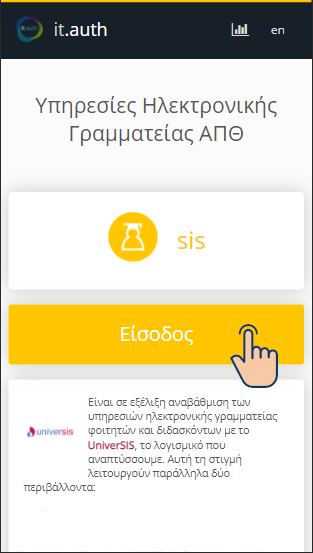
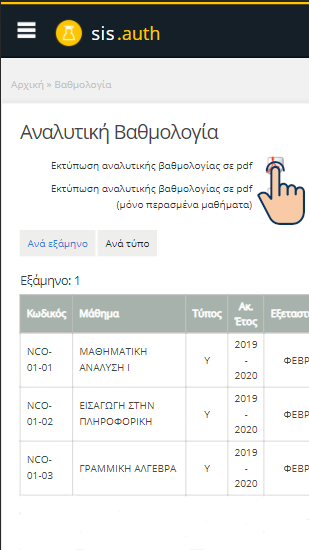
Changed the text url, in the first step of the instructions page on how to get your grades from sis, in a tappable link that opens in a brouwser tab.

diff --git a/lib/pages/general/SignUpInstructionsPage.dart b/lib/pages/general/SignUpInstructionsPage.dart
@@ -1,7 +1,10 @@
+import 'package:flutter/gestures.dart';
 import 'package:flutter/material.dart';
 import 'package:grade_plus_plus/pages/AbstractPage.dart';
 import 'package:grade_plus_plus/pages/fragments/InstructionsStepDescription.dart';
 import 'package:grade_plus_plus/pages/fragments/DotsRow.dart';
+import 'package:grade_plus_plus/pages/fragments/StyledText.dart';
+import 'package:url_launcher/url_launcher.dart';
 
 // Represents the page that contains the instructions on how to get your grades from sis
 class SignUpInstructionsPage extends AbstractPage {
@@ -22,19 +25,11 @@ class _SignUpInstructionsPageState extends PageState<SignUpInstructionsPage> {
   final List<String> imgList = [
     'assets/signup_instructions1.png',
     'assets/signup_instructions2.png',
-    'assets/signup_instructions3.png',
-    'assets/signup_instructions4.png',
-    'assets/signup_instructions5.png',
-    'assets/signup_instructions6.png',
   ];
 
   final List<String> descriptionsList = [
-    'Visit https://sis.auth.gr/old and login with your academic account.',
-    'Click on the top left menu button.',
-    'Click the second choice "Βαθμολογία" available on the menu.',
-    'Click again the second choice "Αναλυτική" available on the new menu that popped up.',
-    'Click the pdf icon "Εκτύπωση αναλυτικής βαθμολογίας σε pdf". A pdf file with your grades will be downloaded.',
-    'You are ready! You can now select the downloaded pdf file in the third stage of our app\'s signup process',
+    'Visit https://sis.auth.gr/old and login with your academic account. Click the pdf icon "Εκτύπωση αναλυτικής βαθμολογίας σε pdf". A pdf file with your grades will be downloaded.',
+    'You are ready! You can now select the downloaded pdf file in the third stage of our app\'s signup process.',
   ];
 
   @override
@@ -90,7 +85,44 @@ class _SignUpInstructionsPageState extends PageState<SignUpInstructionsPage> {
           ),
           InstructionsStepDescription(
             imgIndex: imgIndex,
-            description: descriptionsList[imgIndex],
+            descriptionWidget: (imgIndex != 0)
+                ? StyledText(
+                    descriptionsList[imgIndex],
+                    align: TextAlign.center,
+                    size: 18.0,
+                    weight: FontWeight.values[4],
+                  )
+                : Column(
+                    crossAxisAlignment: CrossAxisAlignment.center,
+                    children: [
+                      Row(
+                        children: <Widget>[
+                          StyledText(
+                            'Visit ',
+                            size: 18.0,
+                            weight: FontWeight.values[4],
+                          ),
+                          InkWell(
+                              child:
+                                  Text('https://sis.auth.gr/old/el/all_grades.',
+                                      style: TextStyle(
+                                        fontSize: 18.0,
+                                        fontWeight: FontWeight.values[4],
+                                        color: Theme.of(context).accentColor,
+                                        decoration: TextDecoration.underline,
+                                      )),
+                              onTap: () => launch(
+                                  'https://sis.auth.gr/old/el/all_grades')),
+                        ],
+                        mainAxisAlignment: MainAxisAlignment.center,
+                      ),
+                      StyledText(
+                        'Then login with your academic account. Click the pdf icon "Εκτύπωση αναλυτικής βαθμολογίας σε pdf". A pdf file with your grades will be downloaded.',
+                        size: 18.0,
+                        weight: FontWeight.values[4],
+                      ),
+                    ],
+                  ),
           ),
           SizedBox(
             height: 15.0,

diff --git a/lib/pages/fragments/InstructionsStepDescription.dart b/lib/pages/fragments/InstructionsStepDescription.dart
@@ -4,9 +4,9 @@ import 'package:grade_plus_plus/pages/fragments/StyledText.dart';
 // Represents the description of each step at Instructions Page
 class InstructionsStepDescription extends StatelessWidget {
   final int imgIndex;
-  final String description;
+  final Widget descriptionWidget;
 
-  InstructionsStepDescription({this.imgIndex, this.description});
+  InstructionsStepDescription({this.imgIndex, this.descriptionWidget});
 
   @override
   Widget build(BuildContext context) {
@@ -25,17 +25,11 @@ class InstructionsStepDescription extends StatelessWidget {
           ),
           // Description widget
           Padding(
-            padding: const EdgeInsets.only(
-              left: 35.0,
-              right: 35.0,
-            ),
-            child: StyledText(
-              description,
-              align: TextAlign.center,
-              size: 18.0,
-              weight: FontWeight.values[4],
-            ),
-          )
+              padding: const EdgeInsets.only(
+                left: 35.0,
+                right: 35.0,
+              ),
+              child: descriptionWidget)
         ],
       ),
     );
